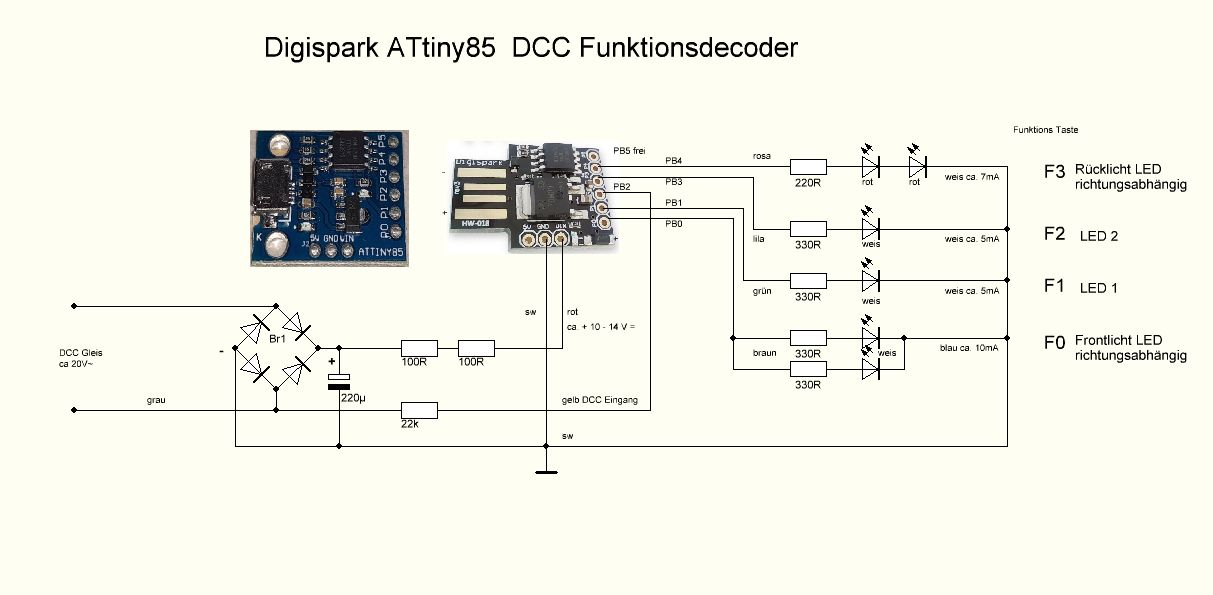
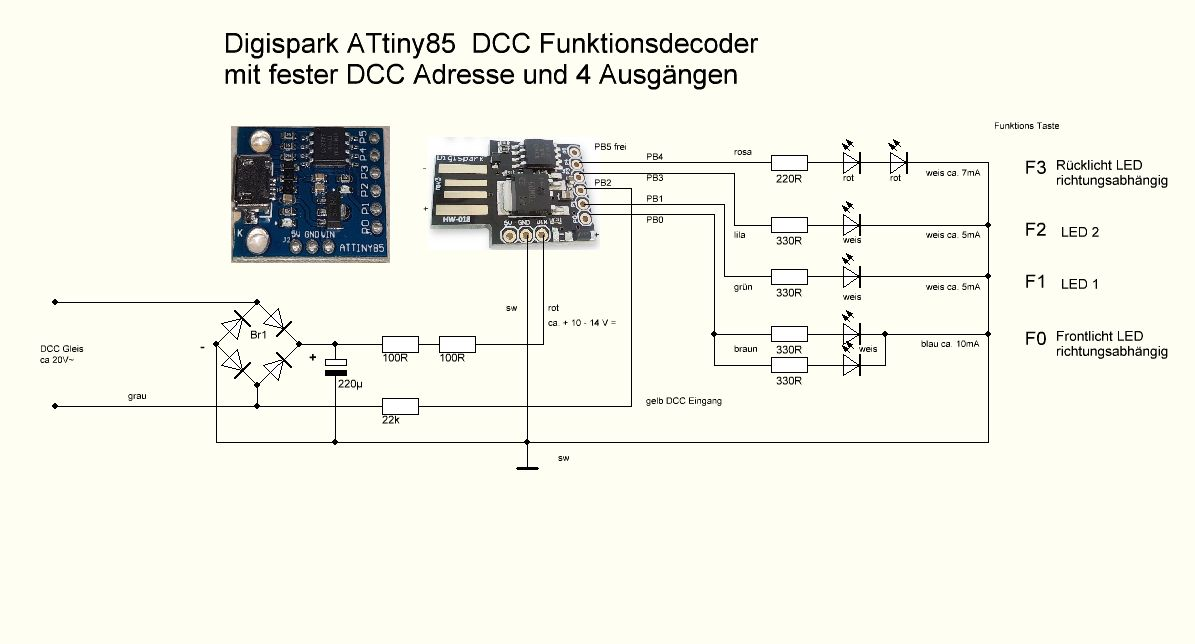
ATtiny85

diff --git a/Eisenbahn/DCC_ATtiny85/DCC_ATtiny85.html b/Eisenbahn/DCC_ATtiny85/DCC_ATtiny85.html
@@ -73,6 +73,19 @@
 			<br> Nun wird man aufgefordert den ATtiny85 an einen USB-Anschluss anzustecken, (auch im eingelöteten Zustand),
 			<br> anschließend wird die Bootloader Firmware <em> upgrade-t85_entry_on_powerOn_activePullup_fastExit_noLED.hex </em> auf Version 2.6 aktualisiert.
             <br>
+ 			</p>           
+            <p>            
+			<a class="bild45" href="ATtiny85_DCC_Decoder_schematic_ACK.jpg" target="_blank" title="ATtiny85_DCC_Decoder_schematic_ACK.jpg"><img src="ATtiny85_DCC_Decoder_schematic_ACK.jpg" class="bild45"  alt="ATtiny85_DCC_Decoder_schematic_ACK.jpg"></a>
+			</p>
+            <p>   
+            <br> ein <em>Sketch für den ATtiny85 DCC Funktionsdecoder mit ACK</em>  <a href="Attiny85_DCC_DecoderRichtung_ACK.zip" target="_blank" title="Attiny85_DCC_DecoderRichtung_ACK.zip">Attiny85_DCC_DecoderRichtung_ACK.zip</a> <span style="font-size:7pt">(aktualisiert 03.2026)</span>
+			<br> zur Programmierung auf dem Programmiergleis (POM)  (3 x Schalten, richtungsabhängig).
+            <br>  CV1 = DCC Adresse
+            <br>  CV8 Wert 0, Decoder Reset (DCC Adresse default 3)  
+            <br> Mit der F0 Taste wird richtungsabhängig die Front LED geschaltet. 
+            <br> Mit der F1 Taste wird Wagenbeleuchtung und auch die on Board LED geschaltet. 
+            <br> Mit der F3 Taste wird richtungsabhängig die Rückfahrt LED geschaltet. 
+			<br><br>
             </p>
 			<p> Hier weitere Information zu Digispark ATtiny85 <span style="font-size:7pt">(externe Links)</span></p>
             <ul class="ulist">
